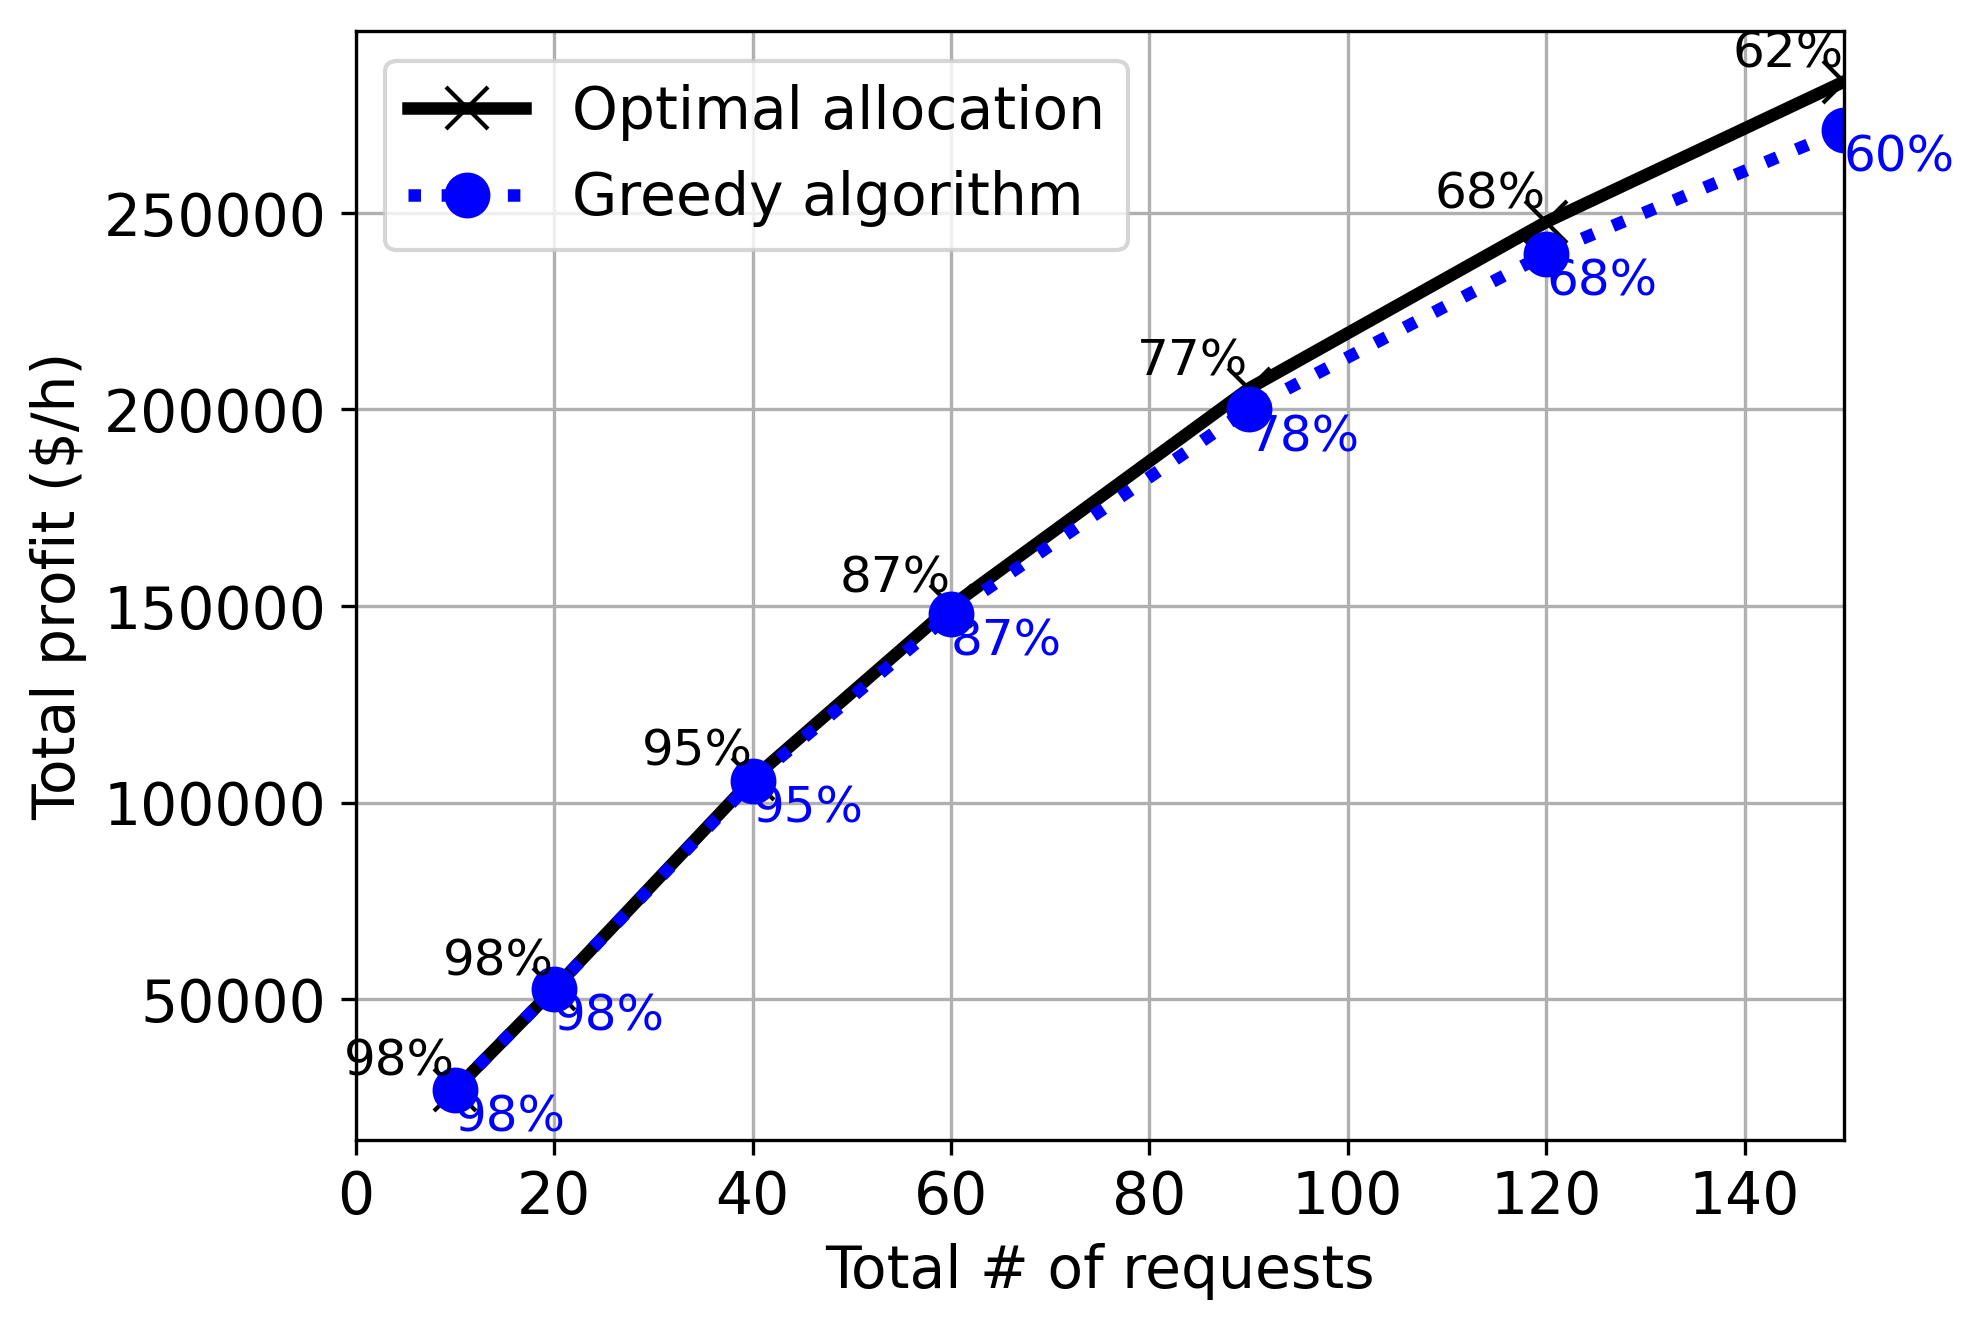
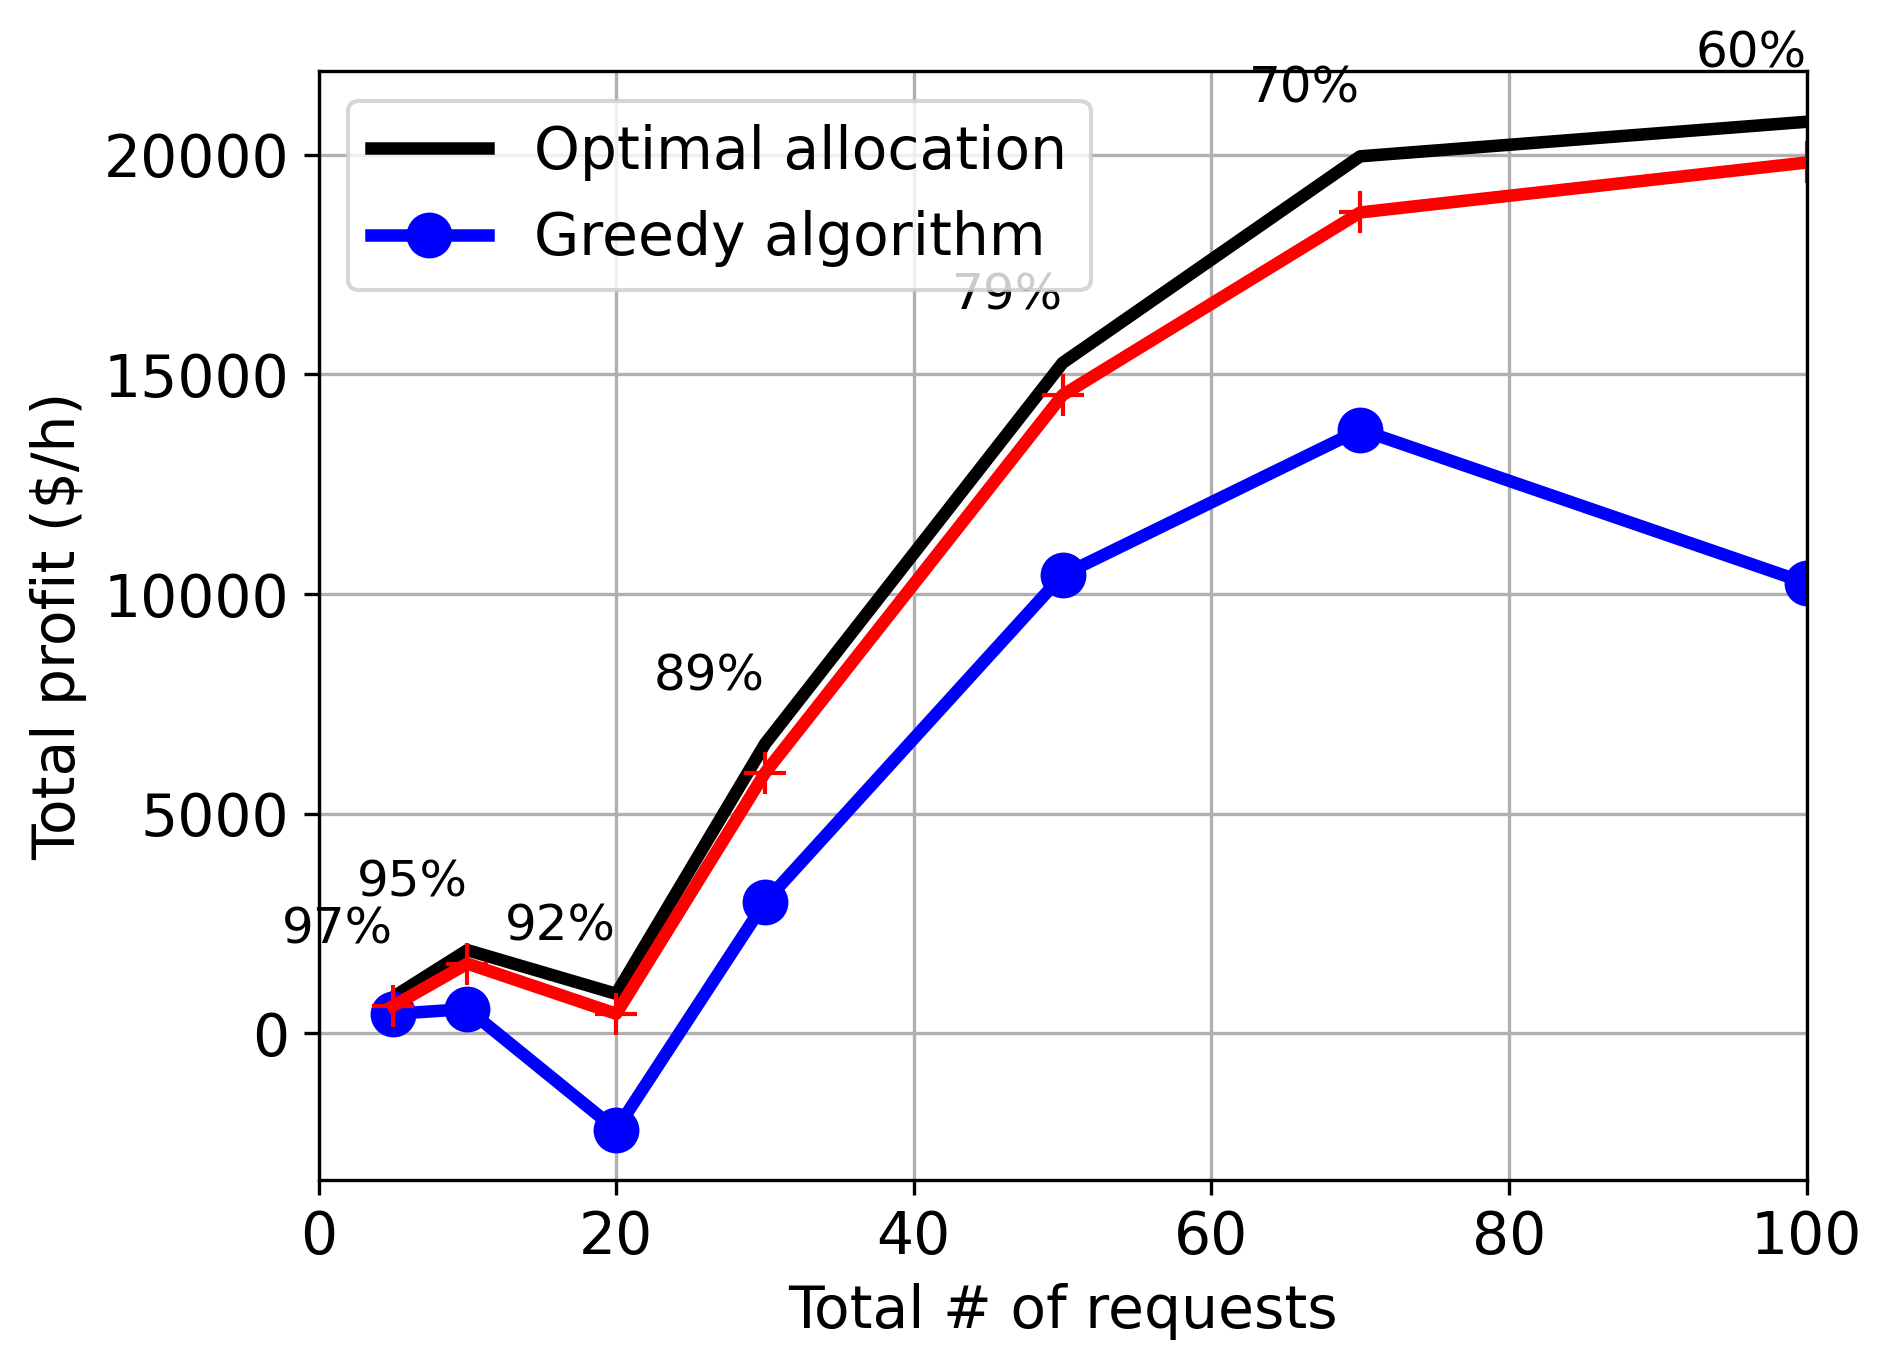
ok

diff --git a/plot_VCG.py b/plot_VCG.py
@@ -2,7 +2,7 @@ import matplotlib.pyplot as plt
 import re
 
 Results = {}
-file = open("results_greedy_vs_solver.txt", "r")
+file = open("results_NEW2_VCG.txt", "r")
 line = file.readline()
 while line != '':
     line = file.readline()
@@ -28,108 +28,158 @@ while line != '':
 
                 line = file.readline()
                 temp = re.findall(r"[-+]?\d*\.\d+|\d+", line)
-                total_profit = float(temp[0])
+                utilization = float(temp[0])
 
                 line = file.readline()
                 temp = re.findall(r"[-+]?\d*\.\d+|\d+", line)
-                serv_perc = float(temp[0])
+                InfSP_payments = temp
+                for _ in range(len(InfSP_payments)):
+                    InfSP_payments[_] = float(temp[_])
 
                 line = file.readline()
                 temp = re.findall(r"[-+]?\d*\.\d+|\d+", line)
-                total_profit_hr = float(temp[0])
+                total_InfSP_payments = float(temp[0])
 
                 line = file.readline()
                 temp = re.findall(r"[-+]?\d*\.\d+|\d+", line)
-                serv_perc_hr = float(temp[0])
+                VSP_payments = temp
+                for _ in range(len(VSP_payments)):
+                    VSP_payments[_] = float(temp[_])
+
+                line = file.readline()
+                temp = re.findall(r"[-+]?\d*\.\d+|\d+", line)
+                total_VSP_payments = float(temp[0])
+
+                line = file.readline()
+                temp = re.findall(r"[-+]?\d*\.\d+|\d+", line)
+                Surplus = float(temp[0])
+
+                line = file.readline()
+                temp = re.findall(r"[-+]?\d*\.\d+|\d+", line)
+                InfSP_cost = temp
+                for _ in range(len(InfSP_cost)):
+                    InfSP_cost[_] = float(temp[_])
+
+                line = file.readline()
+                temp = re.findall(r"[-+]?\d*\.\d+|\d+", line)
+                total_InfSP_cost = float(temp[0])
+
+                line = file.readline()
+                temp = re.findall(r"[-+]?\d*\.\d+|\d+", line)
+                total_InfSP_Profit = float(temp[0])
+
+                line = file.readline()
+                temp = re.findall(r"[-+]?\d*\.\d+|\d+", line)
+                strategic_provider = int(temp[0])
+
+                line = file.readline()
+                temp = re.findall(r"[-+]?\d*\.\d+|\d+", line)
+                Individual_Profit_VCG = temp
+                for _ in range(len(Individual_Profit_VCG)):
+                    Individual_Profit_VCG[_] = float(temp[_])
+
+                line = file.readline()
+                temp = re.findall(r"[-+]?\d*\.\d+|\d+", line)
+                Individual_Profit_VCG_l = temp
+                for _ in range(len(Individual_Profit_VCG_l)):
+                    Individual_Profit_VCG_l[_] = float(temp[_])
+
+                line = file.readline()
+                temp = re.findall(r"[-+]?\d*\.\d+|\d+", line)
+                Individual_Profit_VCG_h = temp
+                for _ in range(len(Individual_Profit_VCG_h)):
+                    Individual_Profit_VCG_h[_] = float(temp[_])
+
+                line = file.readline()
+                temp = re.findall(r"[-+]?\d*\.\d+|\d+", line)
+                Final_InfSP_Payments = temp
+                for _ in range(len(Final_InfSP_Payments)):
+                    Final_InfSP_Payments[_] = float(temp[_])
+
+                line = file.readline()
+                temp = re.findall(r"[-+]?\d*\.\d+|\d+", line)
+                Final_InfSP_Profit = temp
+                for _ in range(len(Final_InfSP_Profit)):
+                    Final_InfSP_Profit[_] = float(temp[_])
+
+                line = file.readline()
+                temp = re.findall(r"[-+]?\d*\.\d+|\d+", line)
+                Stand_Alone_profit = temp
+                for _ in range(len(Stand_Alone_profit)):
+                    Stand_Alone_profit[_] = float(temp[_])
 
                 if (Providers, top, locs, reqs) not in Results.keys():
                     Results[Providers, top, locs, reqs] = dict()
 
-                Results[Providers, top, locs, reqs]['total_profit'] = total_profit
-                Results[Providers, top, locs, reqs]['total_profit_hr'] = total_profit_hr
-                Results[Providers, top, locs, reqs]['serv_perc'] = serv_perc
-                Results[Providers, top, locs, reqs]['serv_perc_hr'] = serv_perc_hr
+                Results[Providers, top, locs, reqs]['utilization'] = utilization
+                Results[Providers, top, locs, reqs]['InfSP_payments'] = InfSP_payments
+                Results[Providers, top, locs, reqs]['total_InfSP_payments'] = total_InfSP_payments
+                Results[Providers, top, locs, reqs]['VSP_payments'] = VSP_payments
+                Results[Providers, top, locs, reqs]['total_VSP_payments'] = total_VSP_payments
+                Results[Providers, top, locs, reqs]['Surplus'] = Surplus
+                Results[Providers, top, locs, reqs]['InfSP_cost'] = InfSP_cost
+                Results[Providers, top, locs, reqs]['total_InfSP_cost'] = total_InfSP_cost
+                Results[Providers, top, locs, reqs]['total_InfSP_Profit'] = total_InfSP_Profit
+                Results[Providers, top, locs, reqs]['strategic_provider'] = strategic_provider
+                Results[Providers, top, locs, reqs]['Individual_Profit_VCG'] = Individual_Profit_VCG
+                Results[Providers, top, locs, reqs]['Individual_Profit_VCG_l'] = Individual_Profit_VCG_l
+                Results[Providers, top, locs, reqs]['Individual_Profit_VCG_h'] = Individual_Profit_VCG_h
+                Results[Providers, top, locs, reqs]['Final_InfSP_Payments'] = Final_InfSP_Payments
+                Results[Providers, top, locs, reqs]['Final_InfSP_Profit'] = Final_InfSP_Profit
+                Results[Providers, top, locs, reqs]['Stand_Alone_profit'] = Stand_Alone_profit
 
 
+i = 5
+T = [1, 2, 3, 4, 5, 6, 7, 8, 9, 10, 11, 12, 13, 14, 15, 16, 17, 18]
+l = 5
+R = [5, 10, 20, 30, 50, 70, 100]
+
+individual_Profit = []
+individual_Profit_l = []
+individual_Profit_h = []
+utilizationn = []
+for r in R:
+    strategic_provider_individual_Profit = 0
+    strategic_provider_individual_Profit_l = 0
+    strategic_provider_individual_Profit_h = 0
+    utilizationn_agr = 0
+    for t in T:
+        strategic_provider = Results[i, t, l, r]['strategic_provider']
+        strategic_provider_individual_Profit += Results[i, t, l, r]['Individual_Profit_VCG'][strategic_provider-1]/len(T)
+        strategic_provider_individual_Profit_l += Results[i, t, l, r]['Individual_Profit_VCG_l'][strategic_provider-1]/len(T)
+        strategic_provider_individual_Profit_h += Results[i, t, l, r]['Individual_Profit_VCG_h'][strategic_provider-1]/len(T)
+        utilizationn_agr += Results[i, t, l, r]['utilization']/len(T)
+
+    individual_Profit.append(strategic_provider_individual_Profit)
+    individual_Profit_l.append(strategic_provider_individual_Profit_l)
+    individual_Profit_h.append(strategic_provider_individual_Profit_h)
+    utilizationn.append(utilizationn_agr)
+
+plt.rcParams.update({'font.size': 14})
+plt.rcParams.update({'axes.labelsize': 14})
+
+plt.plot(R, individual_Profit, color='black', linestyle='solid', linewidth=3, marker='', markerfacecolor='black', markersize=10)
+plt.plot(R, individual_Profit_l, color='blue', linestyle='solid', linewidth=3, marker='o', markerfacecolor='blue', markersize=10)
+plt.plot(R, individual_Profit_h, color='red', linestyle='solid', linewidth=3, marker='+', markerfacecolor='red', markersize=10)
+
+counter = 0
+for ii, jj in zip(R, individual_Profit):
+    temp = int(round(utilizationn[counter] * 100, 2))
+    plt.text(ii, jj + 1000, f'{temp}' + '%', fontsize=12, color='black', ha='right', va='bottom')
+    counter += 1
 
 
+plt.xlim(0, max(R))
+plt.grid()
 
+# naming the x axis
+plt.xlabel('Total # of requests')
+# naming the y axis
+plt.ylabel('Individual provider profit ($/h)')
 
-
-
-I = [3, 5, 10]
-T = [1, 2, 3, 4, 5, 6, 7, 8, 9, 10]
-L = [3, 5, 10]
-R = [5, 10, 20, 40, 50, 60, 70, 80, 90, 100, 120, 130, 140, 150, 160, 200]
-
-for i in I:
-    for l in L:
-
-        reqs = []
-        tot_prof = []
-        serv_perc = []
-
-        tot_prof_hr = []
-        serv_perc_hr = []
-        for r in R:
-            temp_tot_prof = 0
-            temp_tot_prof_hr = 0
-            temp_serv_perc = 0
-            temp_serv_perc_hr = 0
-            counter = 0
-            for t in T:
-                if (i, t, l, r) in Results.keys():
-                    counter += 1
-                    temp_tot_prof += Results[i, t, l, r]['total_profit']
-                    temp_tot_prof_hr += Results[i, t, l, r]['total_profit_hr']
-                    temp_serv_perc += Results[i, t, l, r]['serv_perc']
-                    temp_serv_perc_hr += Results[i, t, l, r]['serv_perc_hr']
-
-            if counter != 0:
-                reqs.append(r)
-
-                tot_prof.append(temp_tot_prof/counter)
-                serv_perc.append(temp_serv_perc / counter)
-
-                tot_prof_hr.append(temp_tot_prof_hr / counter)
-                serv_perc_hr.append(temp_serv_perc_hr / counter)
-
-        if tot_prof == []:
-            continue
-
-        plt.rcParams.update({'font.size': 14})
-        plt.rcParams.update({'axes.labelsize': 14})
-
-        plt.plot(reqs, tot_prof, color='black', linestyle='solid', linewidth=3,
-                 marker='x', markerfacecolor='red', markersize=10)
-
-        counter = 0
-        for ii,jj in zip(reqs,tot_prof):
-            temp = int(round(serv_perc[counter]*100,2))
-            plt.text(ii,jj+1000,f'{temp}'+'%',fontsize=12,color='black', ha='right', va='bottom')
-            counter += 1
-
-        plt.plot(reqs, tot_prof_hr, color='blue', linestyle=':', linewidth=3,
-                 marker='o', markerfacecolor='blue', markersize=10)
-
-        counter = 0
-        for ii, jj in zip(reqs, tot_prof_hr):
-            temp = int(round(serv_perc_hr[counter] * 100, 2))
-            plt.text(ii, jj-1000, f'{temp}' + '%', fontsize=12, color='blue', ha='left', va='top')
-            counter += 1
-
-
-        plt.xlim(0, max(reqs))
-        plt.grid()
-
-        # naming the x axis
-        plt.xlabel('Total # of requests')
-        # naming the y axis
-        plt.ylabel('Total profit ($/h)')
-
-        # giving a title to my graph
-        # plt.title('Total Profit, ' + str(i) + ' Providers, ' + str(l) + ' Locations')
-        plt.legend(['Optimal allocation',  'Greedy algorithm'])
-        plt.savefig('Total Profit, ' + str(i) + ' Providers, ' + str(l) + ' Locations', dpi=300, bbox_inches='tight')
-        plt.show()
-        plt.close('all')
+# giving a title to my graph
+# plt.title('Total Profit, ' + str(i) + ' Providers, ' + str(l) + ' Locations')
+plt.legend(['announces true cost',  'announces lower cost', 'announces higher cost'])
+plt.savefig('Strategic Behavior, ' + str(i) + ' Providers, ' + str(l) + ' Locations', dpi=300, bbox_inches='tight')
+plt.show()
+plt.close('all')
